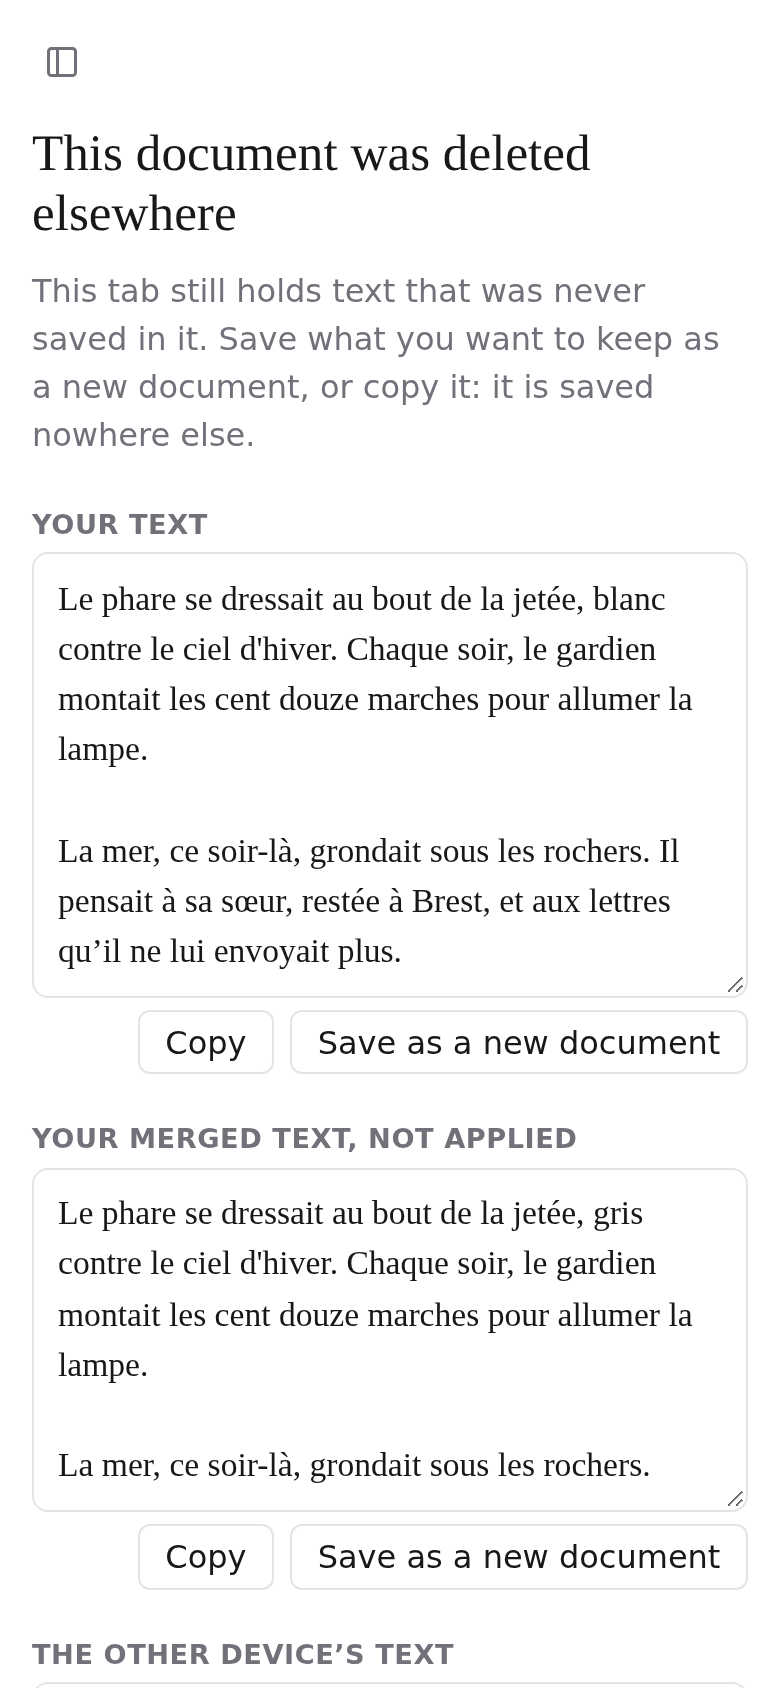
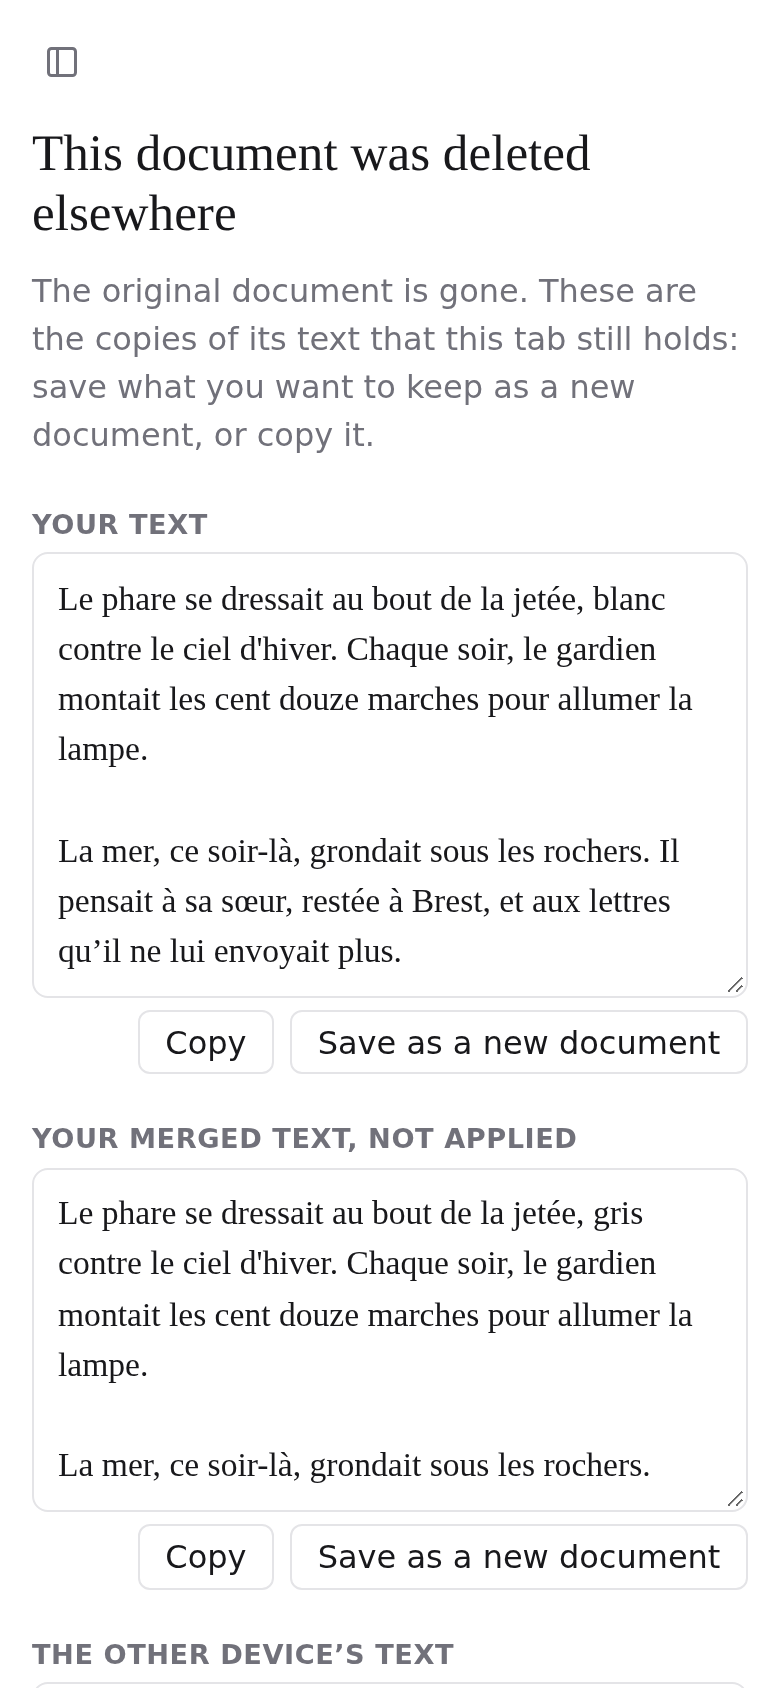
Keep a text edited in this tab when its document is deleted, even once saved
Once a read answers 404, the machine of a document the writer edited in this
tab is kept past the saved cleanup and its text is offered, whatever its save
status; a late save answer no longer puts the deleted document back in the
cache. The unload guard warns for it. A document only read still shows "not
found", and a delete from this tab still discards everything.

The randomised oracle now checks, before clearing its expectations, that an
applied result kept every earlier text as a version. The recovery page says
the original document is gone and these are the copies this tab holds.

Changed region(s): [[0.0308, 0.154, 0.9231, 0.2773]]

diff --git a/apps/web/src/components/TextRecovery.spec.tsx b/apps/web/src/components/TextRecovery.spec.tsx
@@ -59,6 +59,10 @@ const fakeApi = ({ method, path, body }: Call): Response => {
   if (document?.draft === undefined) return notFound();
   const { draft } = document;
   if (method === 'GET' && sub === undefined) return reply(200, document);
+  if (method === 'DELETE' && sub === undefined) {
+    db.delete(document.id);
+    return reply(204);
+  }
   if (method === 'PUT' && sub === 'draft') {
     const input = body as SaveDraftInput;
     if (draft.content === input.content) return reply(200, draft);
@@ -104,6 +108,9 @@ const otherDraft = (content: string) => {
 let calls: Call[];
 /** Answers a request instead of the fake API, when it returns a response. */
 let intercept: (call: Call) => Response | undefined;
+/** Requests matching `delay` are handled by the API at once, but their answer arrives only at `releaseHeld`. */
+let delay: (call: Call) => boolean;
+let held: (() => void)[];
 let queryClient: QueryClient;
 let rerender: ((id: string) => void) | undefined;
 
@@ -210,6 +217,8 @@ beforeEach(() => {
   created = 0;
   calls = [];
   intercept = () => undefined;
+  delay = () => false;
+  held = [];
   queryClient = createQueryClient();
   queryClient.setDefaultOptions({ queries: { refetchOnWindowFocus: false, retry: false, staleTime: Infinity } });
   for (const document of db.values()) queryClient.setQueryData(queryKeys.document(document.id), document);
@@ -226,7 +235,9 @@ beforeEach(() => {
     };
     if (call.method === 'GET' && call.path.includes('/revisions')) return Promise.resolve(reply(200, []));
     calls.push(call);
-    return Promise.resolve(intercept(call) ?? fakeApi(call));
+    const response = intercept(call) ?? fakeApi(call);
+    if (delay(call)) return new Promise<Response>((resolve) => held.push(() => resolve(response)));
+    return Promise.resolve(response);
   });
 });
 
@@ -273,6 +284,56 @@ describe('a document deleted elsewhere', () => {
     await leaveAndComeBack();
     expect(recovery()).not.toBeNull();
     expect(listed()).toEqual([['Your text', typed]]);
+  });
+
+  it('keeps a text this tab edited and saved, after leaving and coming back, until it is discarded', async () => {
+    await open();
+    type(typed);
+    await elapse(1000);
+    expect(server().draft?.content).toBe(typed);
+    db.delete('doc-1');
+    await refetch();
+    expect(listed()).toEqual([['Your text', typed]]);
+    expect(unload().defaultPrevented).toBe(true);
+
+    await leaveAndComeBack();
+    expect(listed()).toEqual([['Your text', typed]]);
+    expect(unload().defaultPrevented).toBe(true);
+  });
+
+  it('keeps a text whose save succeeded, when the answer arrives after the deletion was read', async () => {
+    await open();
+    delay = (call) => call.method === 'PUT';
+    type(typed);
+    await elapse(1000);
+    // The server took the text; its answer is late.
+    expect(server().draft?.content).toBe(typed);
+    db.delete('doc-1');
+    await refetch();
+    expect(listed()).toEqual([['Your text', typed]]);
+
+    delay = () => false;
+    for (const answer of held.splice(0)) answer();
+    await elapse();
+    expect(listed()).toEqual([['Your text', typed]]);
+    expect(unload().defaultPrevented).toBe(true);
+    await leaveAndComeBack();
+    expect(listed()).toEqual([['Your text', typed]]);
+  });
+
+  it('shows "not found" for a document deleted from this tab, with no warning', async () => {
+    await open();
+    type(typed);
+    await elapse(1000);
+    vi.spyOn(window, 'confirm').mockReturnValue(true);
+    fireEvent.click(screen.getByRole('button', { name: 'Delete' }));
+    await elapse();
+    expect(db.has('doc-1')).toBe(false);
+
+    await leaveAndComeBack();
+    expect(isNotFoundPage()).toBe(true);
+    expect(recovery()).toBeNull();
+    expect(unload().defaultPrevented).toBe(false);
   });
 
   it('shows "not found" when this tab never held text for it', async () => {
@@ -345,12 +406,12 @@ describe('a document deleted elsewhere', () => {
     it('discards every text only through the action that says so', async () => {
       await deletedDuringMerge();
       const ask = vi.spyOn(window, 'confirm').mockReturnValue(false);
-      fireEvent.click(screen.getByRole('button', { name: 'Discard these texts' }));
-      expect(ask).toHaveBeenCalledWith('Discard these texts? They are saved nowhere else.');
+      fireEvent.click(screen.getByRole('button', { name: 'Discard these copies' }));
+      expect(ask).toHaveBeenCalledWith('Discard the copies this tab holds? This tab will no longer show them.');
       expect(listed()).toEqual(all);
 
       ask.mockReturnValue(true);
-      fireEvent.click(screen.getByRole('button', { name: 'Discard these texts' }));
+      fireEvent.click(screen.getByRole('button', { name: 'Discard these copies' }));
       await elapse();
       expect(isNotFoundPage()).toBe(true);
       expect(unload().defaultPrevented).toBe(false);

diff --git a/apps/web/src/autosave/useAutosave.ts b/apps/web/src/autosave/useAutosave.ts
@@ -62,7 +62,18 @@ interface Entry {
   autosave: Autosave;
   /** Editors showing this machine. */
   users: number;
+  /** Whether the writer edited the text in this tab. */
+  edited: boolean;
+  /** Whether a read of the document answered that it no longer exists. */
+  deleted: boolean;
 }
+
+/**
+ * Whether the machine holds text the writer may still need though it is saved: they edited it, and the document was
+ * deleted since, so the server's copy is gone. Kept until the writer discards it.
+ */
+const orphaned = (entry: Entry): boolean =>
+  entry.edited && entry.deleted && entry.autosave.getSnapshot().content.trim() !== '';
 
 /**
  * The machines of the open documents, one per document. A machine outlives its editor until its text is saved, so
@@ -85,13 +96,14 @@ const entryFor = (queryClient: QueryClient, document: Document): Entry => {
   if (existing !== undefined) return existing;
 
   const { id } = document;
-  const autosave = createAutosave({
+  const machine = createAutosave({
     base: draftOf(document),
     save: async (draft) => {
       try {
         const saved = await api.saveDraft(id, draft);
         reachability.reportSuccess();
-        cacheSavedDraft(queryClient, id, saved);
+        // A late answer must not bring a document read as deleted back into the cache.
+        if (!entry.deleted) cacheSavedDraft(queryClient, id, saved);
         return { kind: 'saved', draftVersion: saved.draftVersion };
       } catch (error) {
         reachability.reportError(error);
@@ -99,14 +111,35 @@ const entryFor = (queryClient: QueryClient, document: Document): Entry => {
       }
     },
   });
-  const entry = { autosave, users: 0 };
+  const entry: Entry = {
+    // Every edit goes through here: the entry remembers that the writer typed in this document.
+    autosave: {
+      ...machine,
+      edit: (content) => {
+        entry.edited = true;
+        machine.edit(content);
+      },
+    },
+    users: 0,
+    edited: false,
+    deleted: false,
+  };
   registry.set(id, entry);
   return entry;
 };
 
-/** The machine of a document, if this tab has one: an editor shows it, or it still holds text the server does not have. */
-export const autosaveOf = (queryClient: QueryClient, id: string): Autosave | undefined =>
-  registryOf(queryClient).get(id)?.autosave;
+/**
+ * The machine of a document, if this tab has one: an editor shows it, it still holds text the server does not have,
+ * or it holds text the writer edited in a document deleted since.
+ */
+export const entryOf = (queryClient: QueryClient, id: string): Readonly<Entry> | undefined =>
+  registryOf(queryClient).get(id);
+
+/** A read answered that the document no longer exists: a text the writer edited in it is kept until discarded. */
+export const markDeleted = (queryClient: QueryClient, id: string) => {
+  const entry = registryOf(queryClient).get(id);
+  if (entry !== undefined) entry.deleted = true;
+};
 
 /** Drops a document's machine without saving, for a document that no longer exists. */
 export const discardAutosave = (queryClient: QueryClient, id: string) => {
@@ -133,7 +166,7 @@ const release = (queryClient: QueryClient, id: string, entry: Entry) => {
     void autosave.flush();
     const check = () => {
       const { status } = autosave.getSnapshot();
-      if (entry.users > 0 || status === 'conflict' || status === 'rejected') {
+      if (entry.users > 0 || status === 'conflict' || status === 'rejected' || orphaned(entry)) {
         unsubscribe();
       } else if (status === 'saved') {
         const registry = registryOf(queryClient);
@@ -189,7 +222,8 @@ export const useAutosaveGuard = () => {
   const queryClient = useQueryClient();
 
   useEffect(() => {
-    const machines = () => [...registryOf(queryClient).values()].map((entry) => entry.autosave);
+    const entries = () => [...registryOf(queryClient).values()];
+    const machines = () => entries().map((entry) => entry.autosave);
     const flushAll = () => {
       for (const autosave of machines()) void autosave.flush();
     };
@@ -198,7 +232,10 @@ export const useAutosaveGuard = () => {
     };
     const onBeforeUnload = (event: BeforeUnloadEvent) => {
       flushAll();
-      if (hasUnsavedChanges() || machines().some((autosave) => autosave.getSnapshot().status !== 'saved')) {
+      if (
+        hasUnsavedChanges() ||
+        entries().some((entry) => entry.autosave.getSnapshot().status !== 'saved' || orphaned(entry))
+      ) {
         event.preventDefault();
       }
     };

diff --git a/apps/web/src/components/TextRecovery.tsx b/apps/web/src/components/TextRecovery.tsx
@@ -45,16 +45,21 @@ export const HeldText = ({ label, text, children }: HeldTextProps) => {
 const noSession: SessionState = { running: false, texts: [] };
 
 /**
- * Every text this tab holds for a document and that its server no longer has: the local text when it is not saved, the
- * merged text of a stopped merge, the other device's text of a conflict, and every text a merge was given. The first
+ * Every text this tab holds for a document its server no longer has: the local text when the writer edited it or it is
+ * not saved, the merged text of a stopped merge, the other device's text of a conflict, and every text a merge was given. The first
  * label wins for a text held twice; blank texts hold nothing to recover.
  */
-export const recoverableTexts = (machine: AutosaveState, session: SessionState): { label: string; text: string }[] => {
+export const recoverableTexts = (
+  machine: AutosaveState,
+  session: SessionState,
+  edited: boolean,
+): { label: string; text: string }[] => {
   const texts: { label: string; text: string }[] = [];
   const add = (text: string, label: string) => {
     if (text.trim() !== '' && !texts.some((item) => item.text === text)) texts.push({ label, text });
   };
-  if (machine.status !== 'saved') add(machine.content, 'Your text');
+  // Saved or not: the server's copy went with the document.
+  if (edited || machine.status !== 'saved') add(machine.content, 'Your text');
   if (session.result !== undefined) add(session.result, 'Your merged text, not applied');
   if (machine.status === 'conflict') add(machine.server.content, 'The other device’s text');
   for (const { text, side } of session.texts) add(text, earlierTextLabel(side));
@@ -65,6 +70,8 @@ interface DeletedDocumentProps {
   id: string;
   /** The machine this tab still has for the document. */
   autosave: Autosave;
+  /** Whether the writer edited the text in this tab. */
+  edited: boolean;
   /** The title of the deleted document, when it is known: the new documents take it. */
   title: string | null | undefined;
   /** Shown when the tab holds no text for the document. */
@@ -81,6 +88,7 @@ interface DeletedDocumentProps {
 export const DeletedDocument = ({
   id,
   autosave,
+  edited,
   title,
   notFound,
   onOpen,
@@ -107,11 +115,11 @@ export const DeletedDocument = ({
     },
   });
 
-  const texts = recoverableTexts(machine, sessionState);
+  const texts = recoverableTexts(machine, sessionState, edited);
   if (texts.length === 0) return notFound;
 
   const discard = () => {
-    if (!window.confirm('Discard these texts? They are saved nowhere else.')) return;
+    if (!window.confirm('Discard the copies this tab holds? This tab will no longer show them.')) return;
     discardAutosave(queryClient, id);
     onDiscarded();
   };
@@ -123,8 +131,8 @@ export const DeletedDocument = ({
       <section className="deleted-document-body" aria-labelledby="deleted-document-title">
         <h1 id="deleted-document-title">This document was deleted elsewhere</h1>
         <p>
-          This tab still holds text that was never saved in it. Save what you want to keep as a new document, or copy
-          it: it is saved nowhere else.
+          The original document is gone. These are the copies of its text that this tab still holds: save what you want
+          to keep as a new document, or copy it.
         </p>
         {error && <div className="banner error">Could not create the document: {error}</div>}
         {texts.map(({ label, text }) => (
@@ -136,7 +144,7 @@ export const DeletedDocument = ({
         ))}
         <footer className="deleted-document-footer">
           <button type="button" className="danger" disabled={create.isPending} onClick={discard}>
-            Discard these texts
+            Discard these copies
           </button>
         </footer>
       </section>

diff --git a/apps/web/src/reconcile/session.spec.ts b/apps/web/src/reconcile/session.spec.ts
@@ -37,8 +37,9 @@ const failure = new Error('503 Service Unavailable');
  * other device's text it was confirmed with) and every result not discarded by the writer is the server's draft, in a
  * revision, or shown to the writer: the local text, the conflict's other text, the merged text, or a text listed by
  * `hiddenTexts`. Only what the session and the machine expose counts. Every text of another writer that a session's
- * write replaced is on the server or shown by a tab. A version named for a side holds a text of that side. Every
- * confirmation ends, and once the server is quiet every conflict ends applied.
+ * write replaced is on the server or shown by a tab. When a result is applied, every text its session was given before
+ * is in a revision, and the result is the local text or the draft. A version named for a side holds a text of that
+ * side. Every confirmation ends, and once the server is quiet every conflict ends applied.
  */
 describe('reconciliation session, randomised', () => {
   const texts = ['', 'A', 'B', 'C', 'D'];
@@ -298,7 +299,16 @@ describe('reconciliation session, randomised', () => {
       const state = tab.session().getSnapshot();
       steps.push(state.stop === undefined ? 'applied' : `stopped: ${state.stop.reason}`);
       if (state.result === undefined) {
-        // Applied: the result is the writer's text now, which they may change; the rest is kept.
+        // Applied: the result is the writer's text now, which they may change; the rest must be kept, which is
+        // checked before the expectations are cleared.
+        const versions = new Set(revisions.map((item) => item.content));
+        for (const text of tab.required) {
+          if (text !== result && !versions.has(text))
+            fail(`applied ${JSON.stringify(result)} without keeping ${JSON.stringify(text)}`);
+        }
+        if (tab.autosave.getSnapshot().content !== result && draft.content !== result) {
+          fail(`applied ${JSON.stringify(result)}, which is neither the local text nor the draft`);
+        }
         tab.required.clear();
         tab.pending.clear();
         // A replaced text that is the result is the draft again: from now on, only its writer can replace it.

diff --git a/apps/web/src/components/DocumentView.tsx b/apps/web/src/components/DocumentView.tsx
@@ -3,7 +3,7 @@ import { useQuery, useQueryClient } from '@tanstack/react-query';
 import type { ReactNode } from 'react';
 import { useReducer } from 'react';
 import { api, inlineError, isNotFound, queryKeys } from '../api';
-import { autosaveOf } from '../autosave/useAutosave';
+import { entryOf, markDeleted } from '../autosave/useAutosave';
 import { Editor } from './Editor';
 import { DeletedDocument } from './TextRecovery';
 
@@ -24,7 +24,15 @@ export const DocumentView = ({ id, onDeleted, onGoBack, onOpen, toolbarStart }: 
   const [, discarded] = useReducer((count: number) => count + 1, 0);
   const document = useQuery({
     queryKey: queryKeys.document(id),
-    queryFn: () => api.getDocument(id),
+    queryFn: async () => {
+      try {
+        return await api.getDocument(id);
+      } catch (error) {
+        // Known before the editor goes: its release then keeps a text the writer edited.
+        if (isNotFound(error)) markDeleted(queryClient, id);
+        throw error;
+      }
+    },
     enabled: id.length > 0,
     retry: (failureCount, error) => !isNotFound(error) && failureCount < 3,
   });
@@ -43,13 +51,14 @@ export const DocumentView = ({ id, onDeleted, onGoBack, onOpen, toolbarStart }: 
       </div>
     );
     // A document deleted elsewhere while this tab holds text for it: the text stays reachable.
-    const autosave = id ? autosaveOf(queryClient, id) : undefined;
-    return autosave === undefined ? (
+    const entry = id ? entryOf(queryClient, id) : undefined;
+    return entry === undefined ? (
       notFound
     ) : (
       <DeletedDocument
         id={id}
-        autosave={autosave}
+        autosave={entry.autosave}
+        edited={entry.edited}
         title={document.data?.title}
         notFound={notFound}
         onOpen={onOpen}
